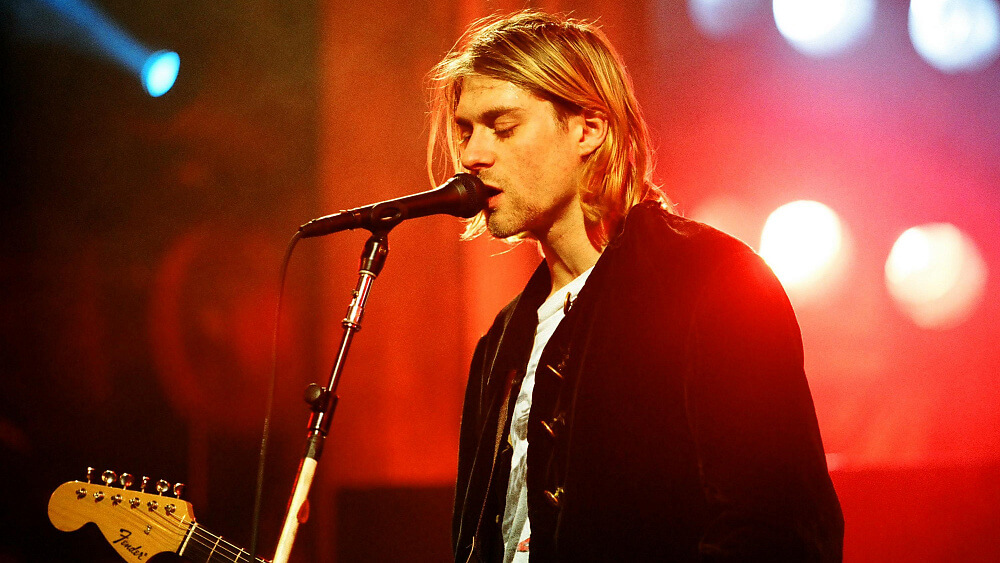
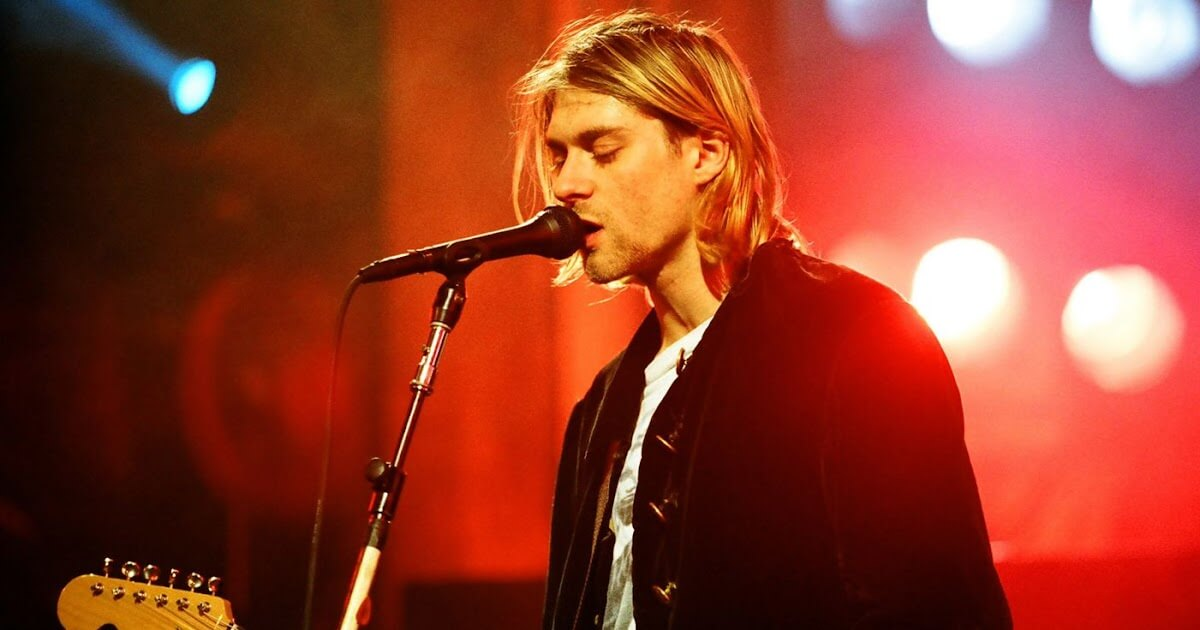
обновил изображения и добавил стили для них на внутренней странице

diff --git a/src/components/About/About.css b/src/components/About/About.css
@@ -29,8 +29,8 @@
 }
 
 .about__photo {
-  max-width: 100%;
-  max-height: 400px;
+  width: 100%;
+  max-height: 600px;
   margin-bottom: 20px;
   object-fit: cover;
 }
